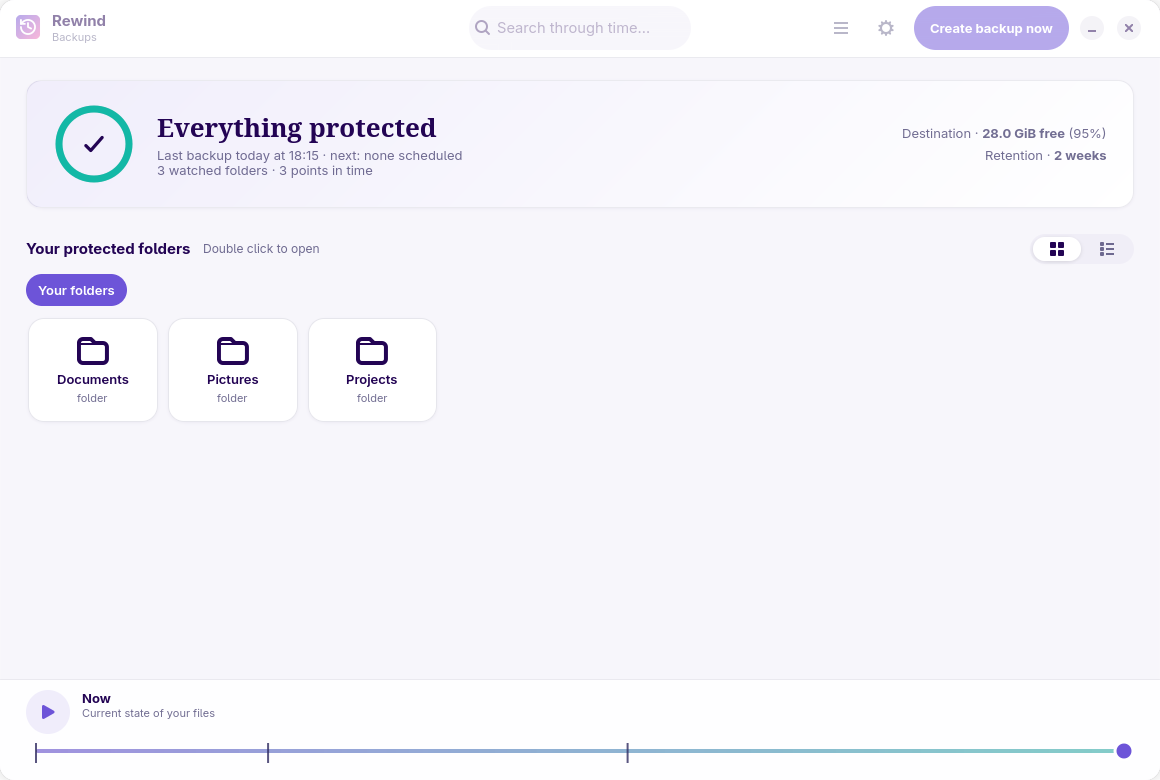
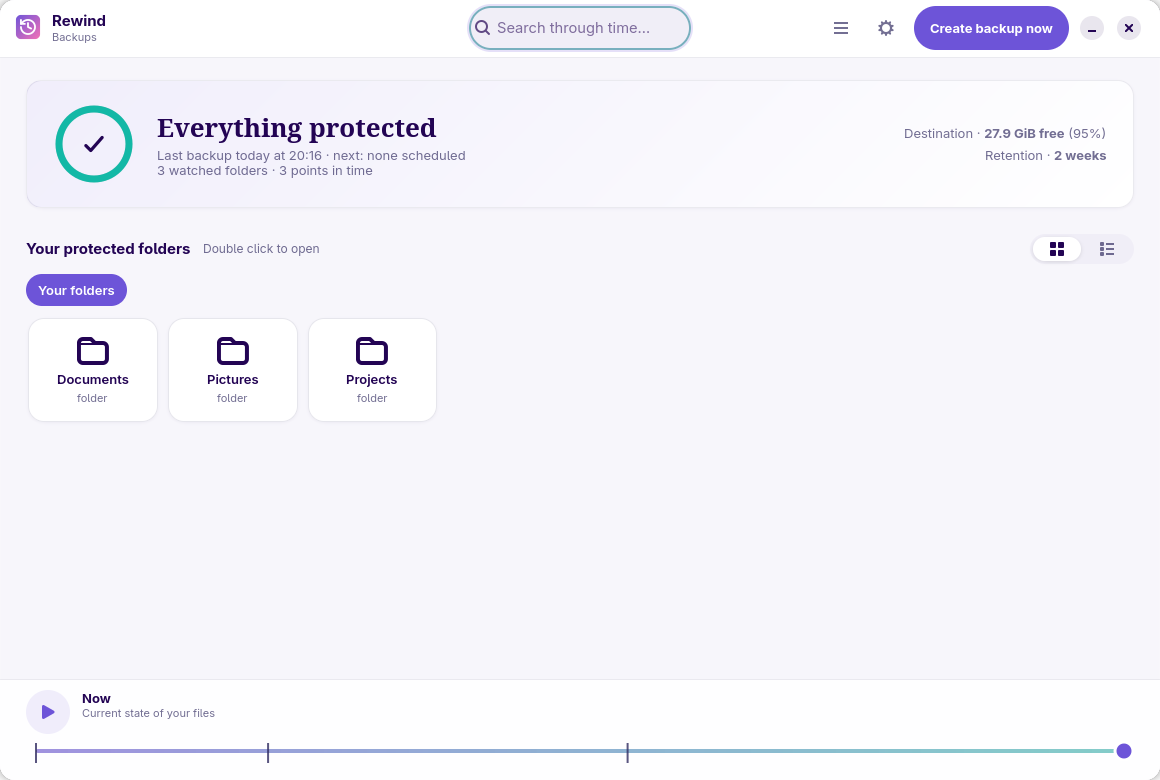
docs: name each screenshot set in the language of its README

diff --git a/packaging/screenshots.py b/packaging/screenshots.py
@@ -33,6 +33,12 @@ SHEET_SIZE = (660, 760)
 # leak a throwaway path. Only the label is affected: no snapshot is taken
 # after this point.
 DEMO_DESTINATION = '/media/backup/Rewind'
+SHOT_NAMES = {
+    'en': {'main': 'main-window', 'time': 'time-travel',
+           'search': 'search', 'settings': 'settings'},
+    'es': {'main': 'ventana-principal', 'time': 'viaje-en-el-tiempo',
+           'search': 'busqueda', 'settings': 'ajustes'},
+}
 
 
 def pump(seconds):
@@ -196,6 +202,8 @@ def main():
     app = Adw.Application(application_id='com.github.bitteam.'
                                          'BackInTimeGNOME.Shots')
     app.backend = backend
+    # The captures must not depend on whether the desktop is in dark mode.
+    Adw.StyleManager.get_default().set_color_scheme(Adw.ColorScheme.FORCE_LIGHT)
     app.register(None)
     window = MainWindow(app)
     window.set_default_size(*SIZE)
@@ -207,11 +215,12 @@ def main():
 
     out = args.out if os.path.isabs(args.out) else os.path.join(root, args.out)
     os.makedirs(out, exist_ok=True)
+    names = SHOT_NAMES.get(args.lang, SHOT_NAMES['en'])
 
     window.index = None
     window._apply_mode()
     pump(1.0)
-    render(window, os.path.join(out, 'main-window.png'), SIZE)
+    render(window, os.path.join(out, names['main'] + '.png'), SIZE)
 
     window.set_snapshot(1)
     window.rel = ''
@@ -223,11 +232,11 @@ def main():
             window._activate(entry)
             break
     pump(1.5)
-    render(window, os.path.join(out, 'time-travel.png'), SIZE)
+    render(window, os.path.join(out, names['time'] + '.png'), SIZE)
 
     window.search.set_text('informe')
     pump(2.0)
-    render(window, os.path.join(out, 'search.png'), SIZE)
+    render(window, os.path.join(out, names['search'] + '.png'), SIZE)
 
     window.search.set_text('')
     window.backend.set_destination_path(DEMO_DESTINATION)
@@ -238,7 +247,7 @@ def main():
         return 1
     sheet.set_default_size(*SHEET_SIZE)
     pump(2.0)
-    render(sheet, os.path.join(out, 'settings.png'), SHEET_SIZE)
+    render(sheet, os.path.join(out, names['settings'] + '.png'), SHEET_SIZE)
 
     sheet.close()
     window._close_now()
